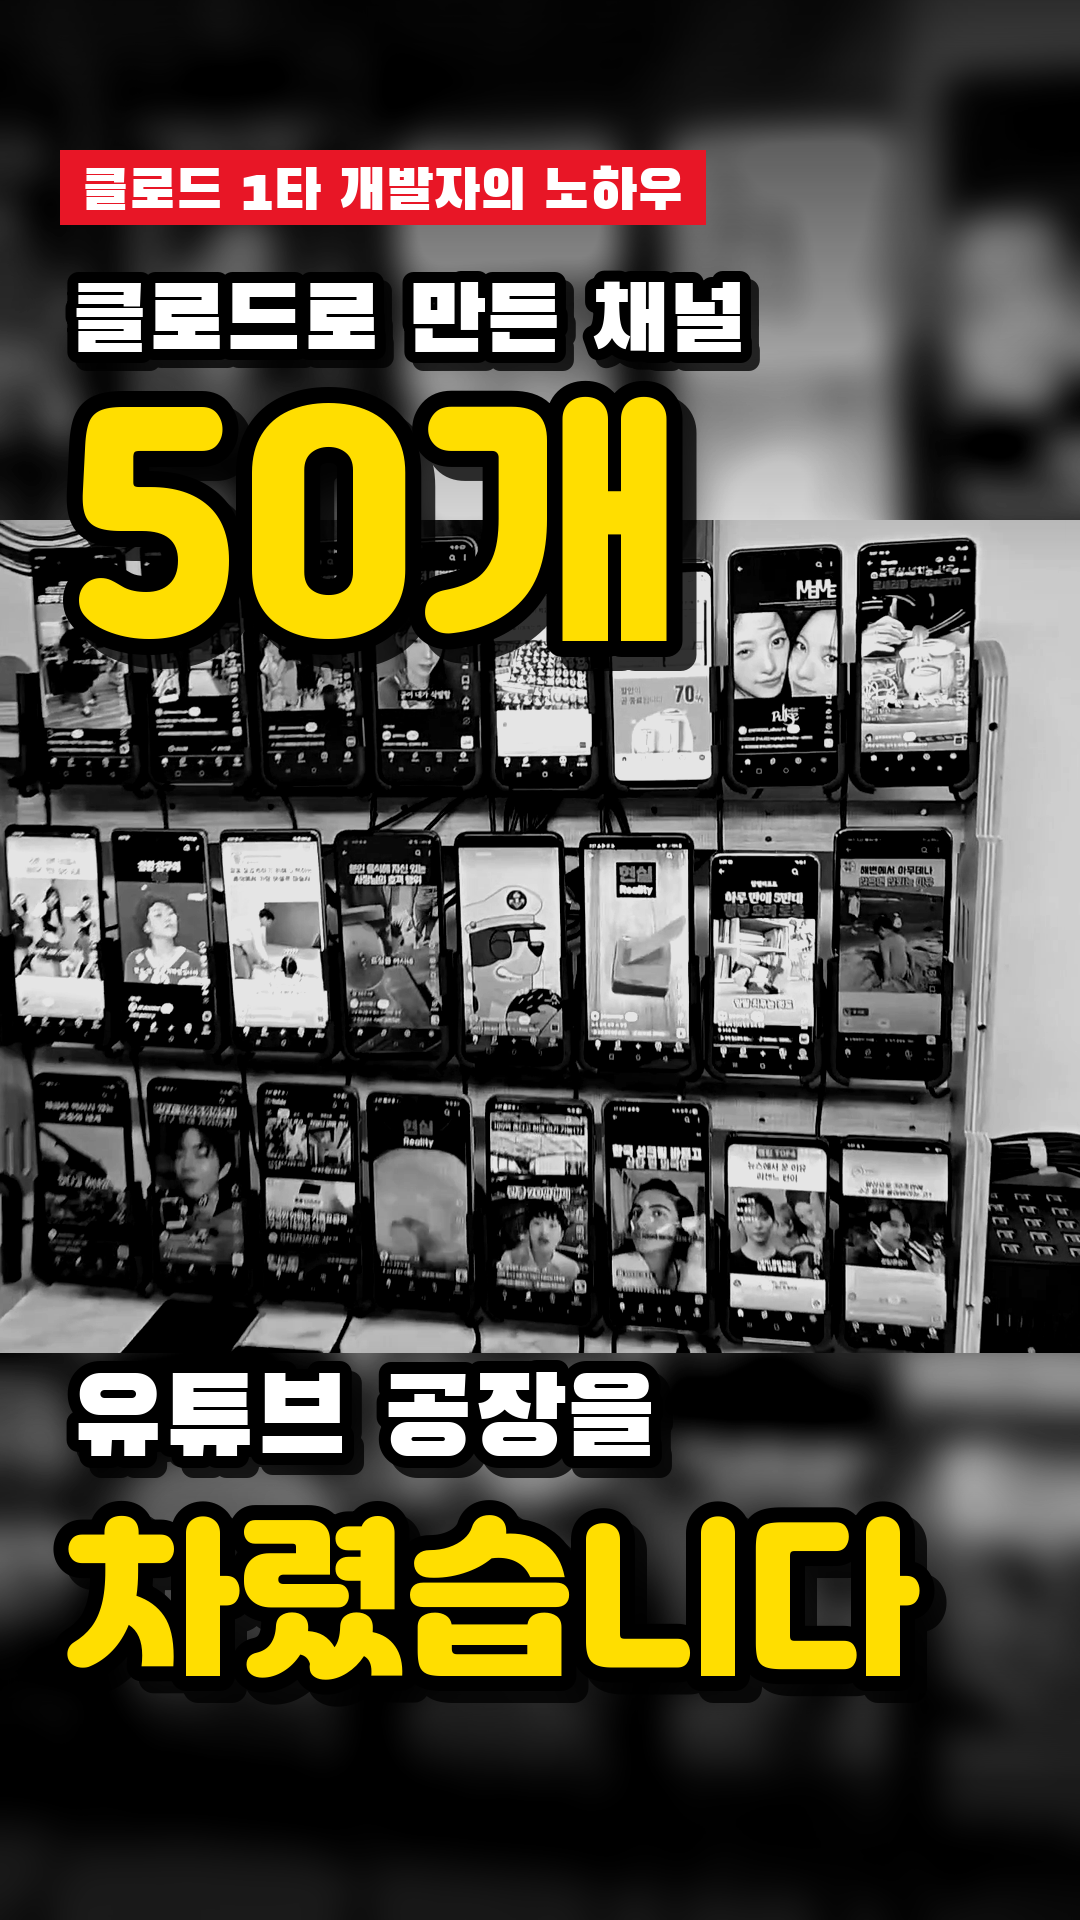
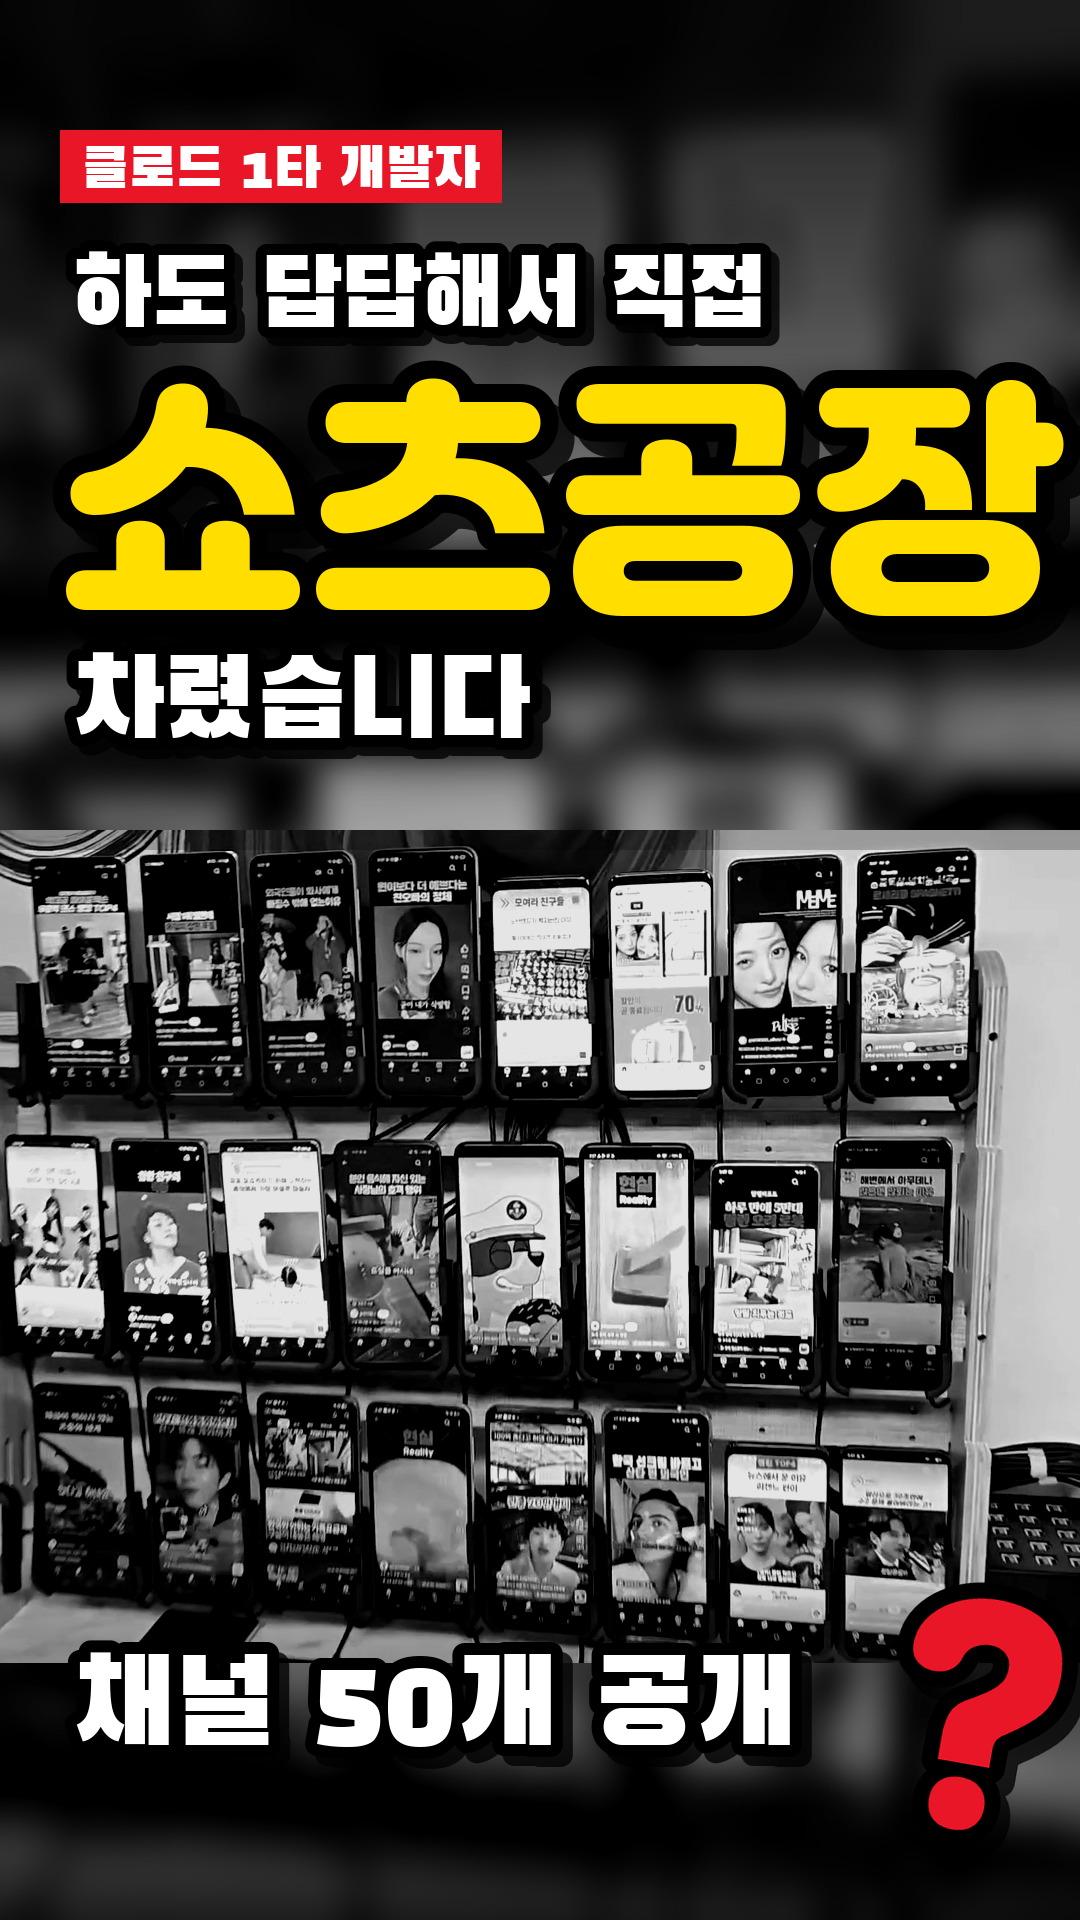
숏클 쇼츠A 썸네일: 쇼츠공장 크게

diff --git a/out/숏클출시강의/썸네일/make_thumb_shortA.py b/out/숏클출시강의/썸네일/make_thumb_shortA.py
@@ -14,21 +14,22 @@ from PIL import ImageFilter
 back = bg.crop((980 - 304, 0, 980 + 304, 1080)).resize((W, H)).filter(ImageFilter.GaussianBlur(18))
 rack = bg.crop((260, 0, 1660, 1080))                    # 거치대 전체
 rack = rack.resize((W, int(1080 * W / 1400)), Image.LANCZOS)
-back.paste(rack, (0, 520))
+back.paste(rack, (0, 830))
 im = back.convert("L")
 im = ImageEnhance.Brightness(ImageEnhance.Contrast(im).enhance(1.35)).enhance(0.9).convert("RGBA")
 # 위·아래 어둡게(글자 받침), 가운데 폰은 살린다
 m = Image.new("L", (W, H)); md = ImageDraw.Draw(m)
 for y in range(H):
-    v = 200 - y * 0.35 if y < 560 else (max(0, (y - 1340) * 0.5) if y > 1340 else 0)
+    v = 230 - y * 0.2 if y < 850 else (max(0, (y - 1560) * 0.6) if y > 1560 else 0)
     md.line((0, y, W, y), fill=int(max(0, min(220, v))))
 im = Image.composite(Image.new("RGBA", (W, H), (0, 0, 0, 255)), im, m)
 
-band(im, (60, 150), "클로드 1타 개발자의 노하우", S(56), RED + (255,), WHT)
-heavy(im, (60, 270), "클로드로 만든 채널", S(92), WHT, stroke=11, shadow=8)
-heavy(im, (50, 380), "50개", T(260), YEL, stroke=16, shadow=14)
-heavy(im, (60, 1360), "유튜브 공장을", S(110), WHT, stroke=12, shadow=10)
-heavy(im, (50, 1500), "차렸습니다", T(170), YEL, stroke=15, shadow=12)
+band(im, (60, 130), "클로드 1타 개발자", S(56), RED + (255,), WHT)
+heavy(im, (60, 240), "하도 답답해서 직접", S(96), WHT, stroke=11, shadow=8)
+heavy(im, (40, 360), "쇼츠공장", T(250), YEL, stroke=18, shadow=16)
+heavy(im, (60, 640), "차렸습니다", S(110), WHT, stroke=12, shadow=9)
+heavy(im, (60, 1640), "채널 50개 공개", S(120), WHT, stroke=12, shadow=10)
+heavy(im, (850, 1560), "?", T(260), RED, stroke=16, shadow=12, rot=-10)
 im.convert("RGB").save(f"{D}/short_A.png")
 im.convert("RGB").resize((360, 640)).save(f"{D}/short_A_s.png")
 print("ok")
